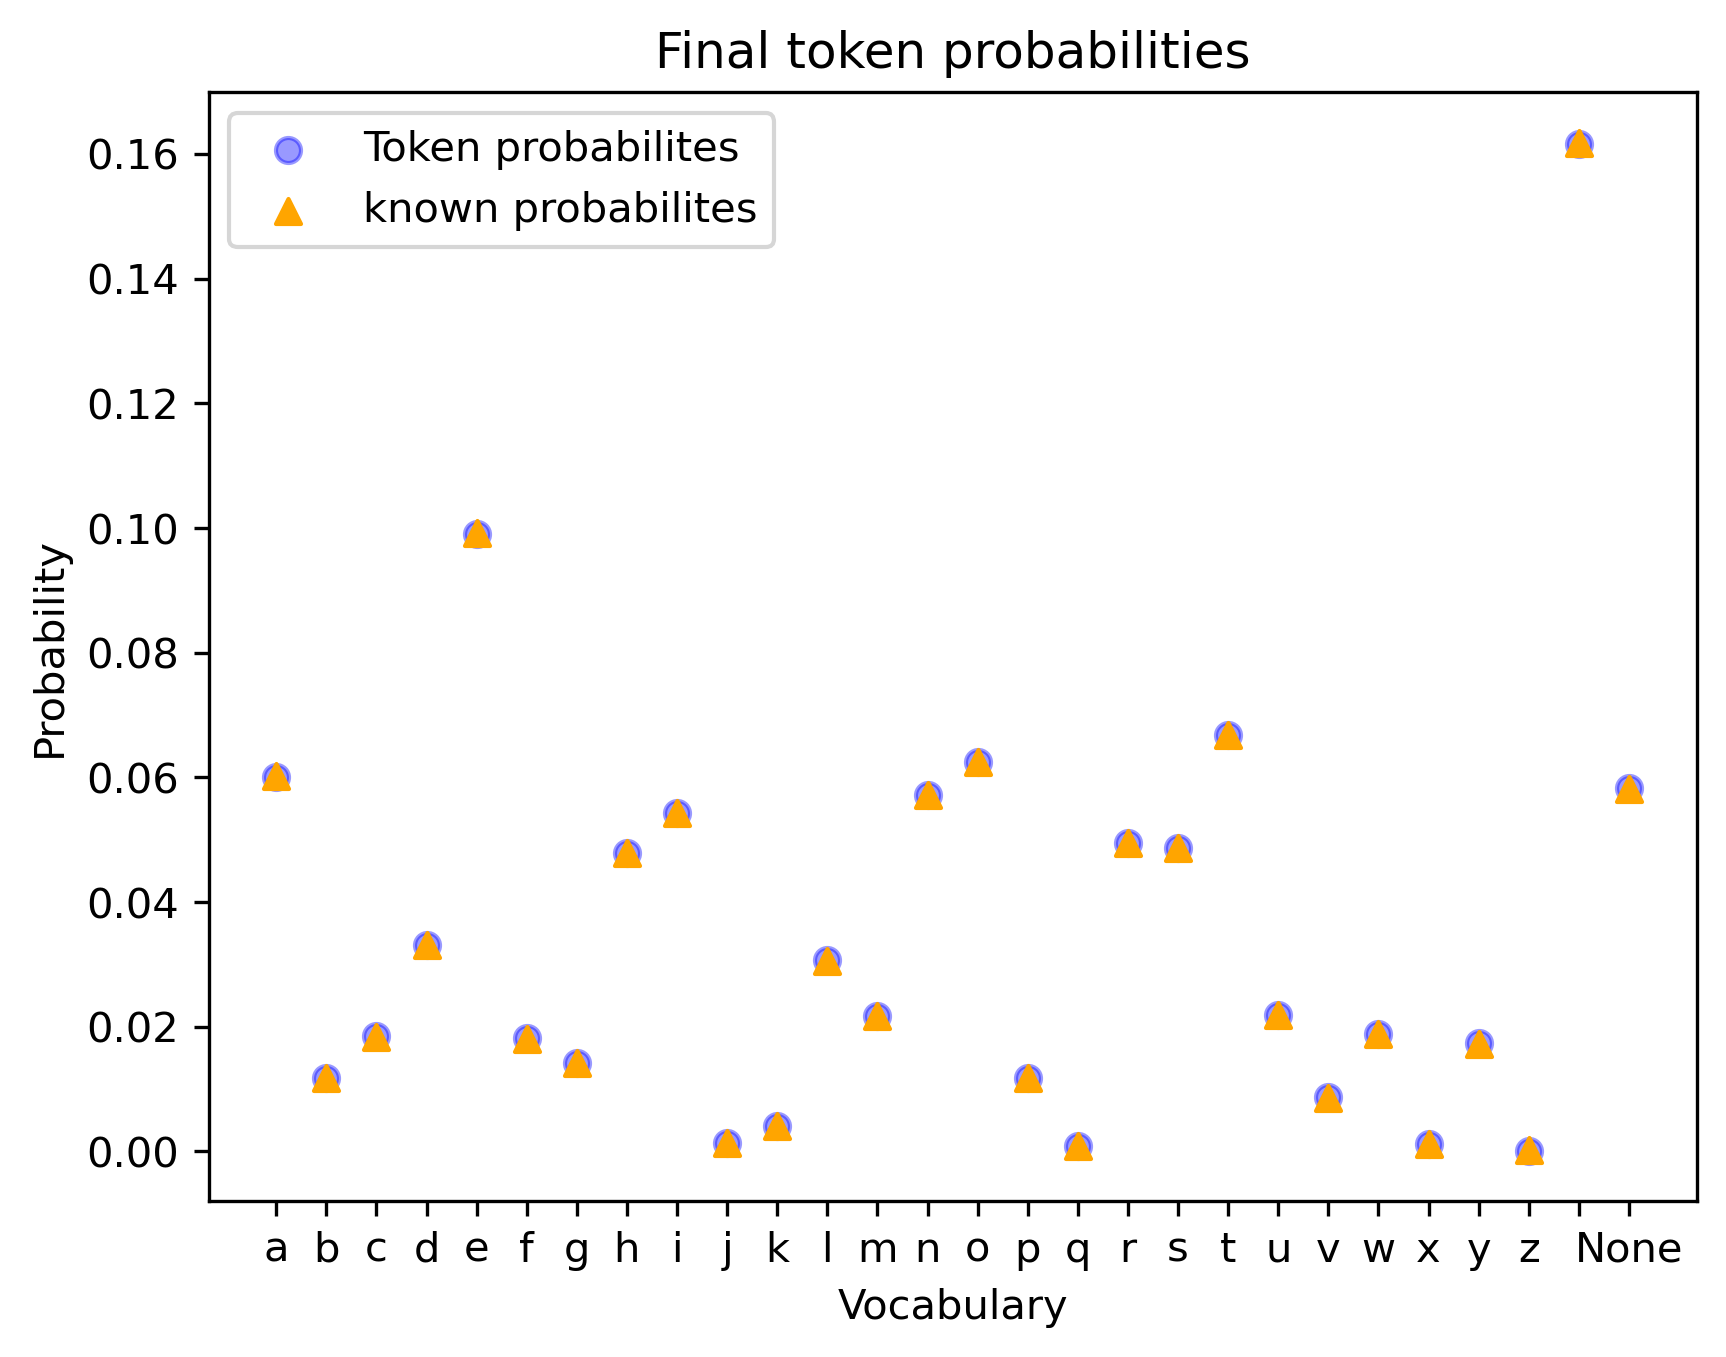
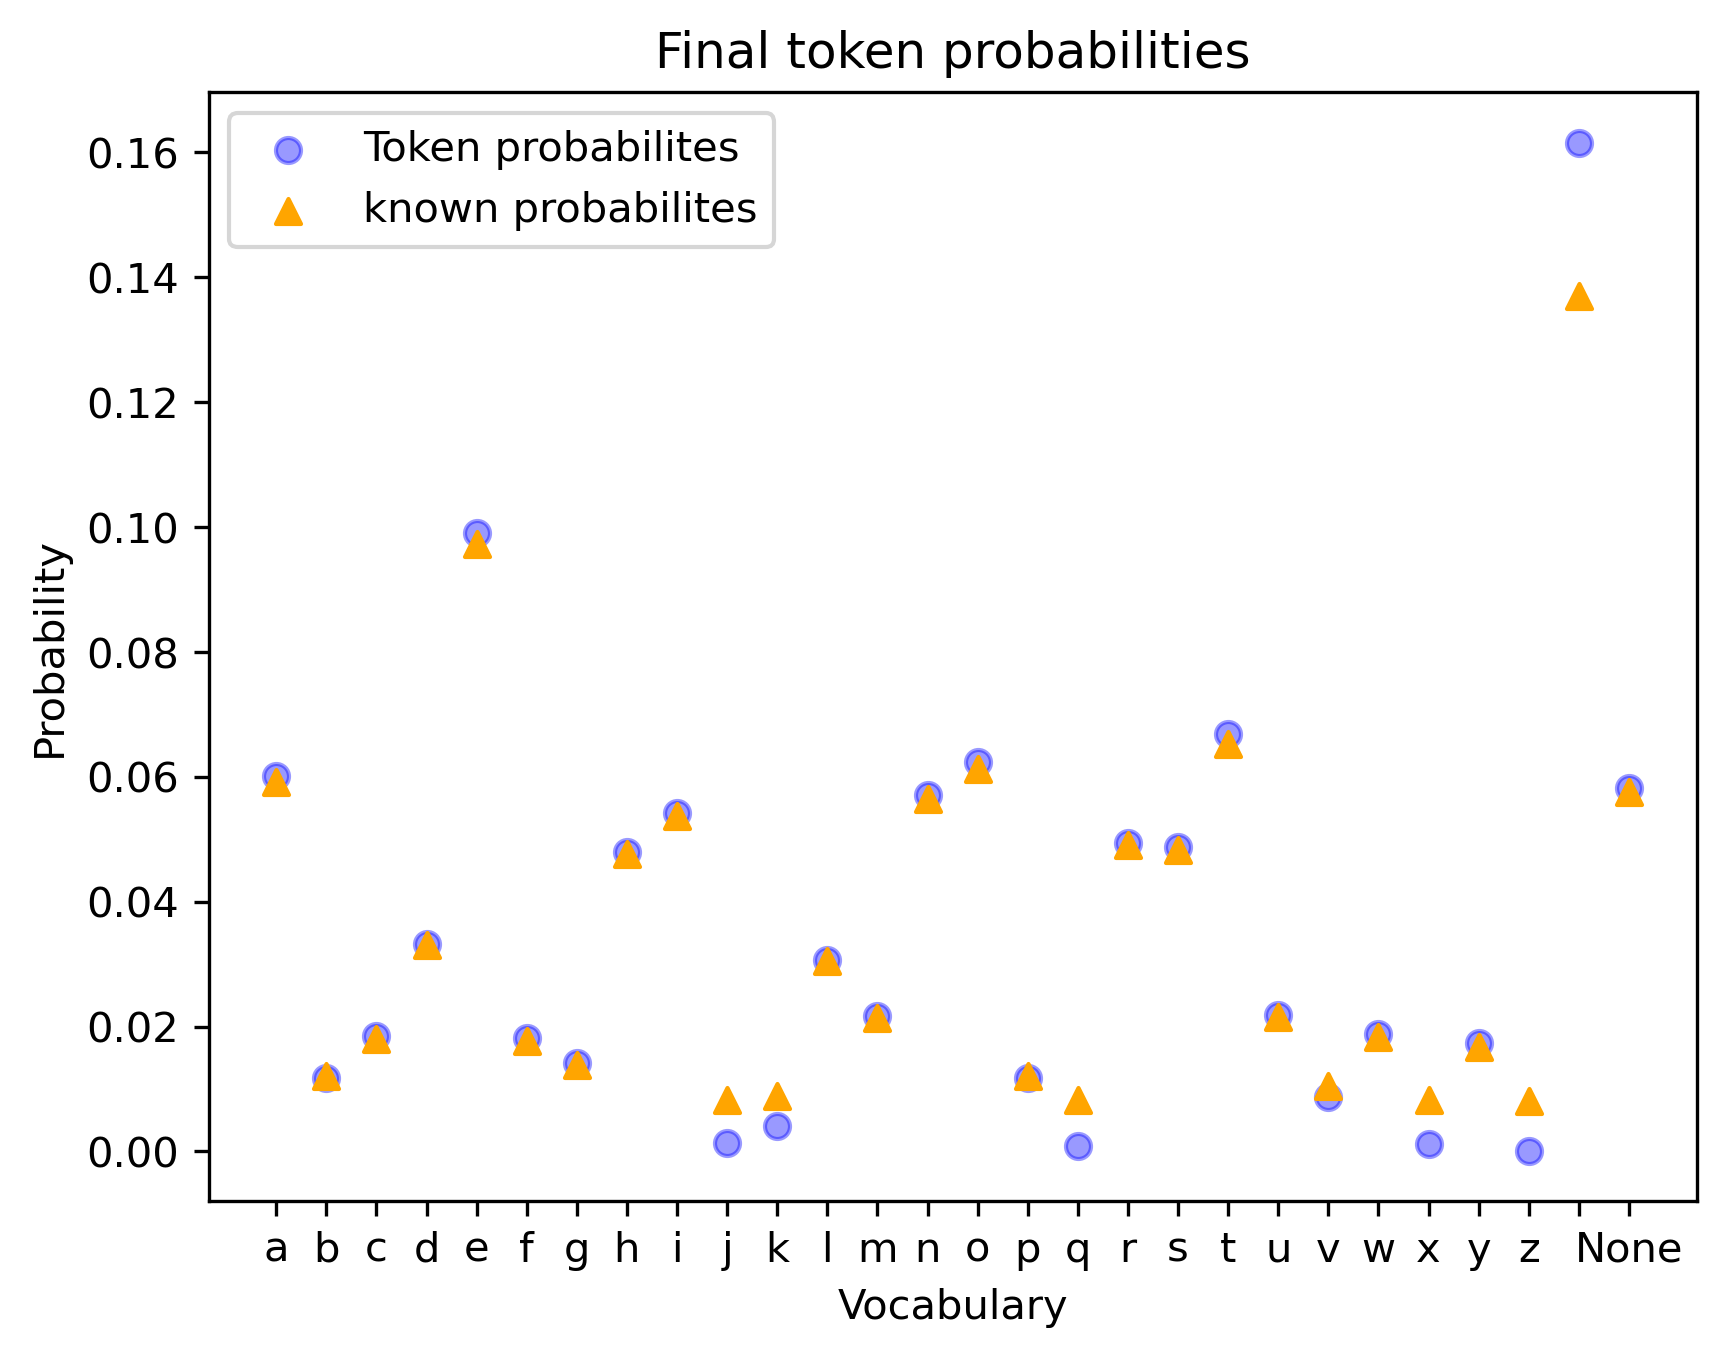
update py

diff --git a/unigram_pytorch.py b/unigram_pytorch.py
@@ -50,7 +50,7 @@ class Unigram(nn.Module):
         p = normalize(torch.sigmoid(self.s))
 
         # compute log probability of input
-        return torch.sum(input, 1, keepdim=True).T @ torch.log(p)
+        return torch.sum(input, 1, keepdim=True).T @ torch.log(p), p
 
 
 def gradient_descent_example():
@@ -76,27 +76,70 @@ def gradient_descent_example():
 
     # set number of iterations and learning rate
     num_iterations = 100
-    learning_rate = 0.1
+    learning_rate = 0.02
 
     # train model
     optimizer = torch.optim.Adam(model.parameters(), lr=learning_rate)
     list_loss = []
     list_items = []
     for i in range(num_iterations):
-        p_pred = model(x)
+        p_pred, p = model(x)
         loss = -p_pred
         loss.backward(retain_graph=True)
         optimizer.step()
         optimizer.zero_grad()
         list_loss.append(i)
         list_items.append(loss.item())
+    true_p = torch.sum(x, 1, keepdim=True) / len(text)
+    mm = -(torch.sum(x, 1, keepdim=True)).T @ torch.log(true_p)
+    min = mm.item()
+    # graph 1
+    plt.figure()
 
     plt.plot(list_loss, list_items)
+    plt.xlabel("iterations")
+    plt.ylabel("loss")
+    plt.title("Loss as a function of time ")
+    plt.axhline(y=min, color="red", linestyle="--", label="Minimum possible loss")
+    plt.legend()
     plt.show()
+    plt.savefig("g_1_100.png", dpi=300, bbox_inches="tight")
 
-    # display results
-    # raise RuntimeError("Remove this error and create visualizations.")  # DO THIS
-    # graph
+    # graph 2
+    plt.figure()
+
+    plt.scatter(
+        [str(i) for i in vocabulary],
+        true_p.squeeze().tolist(),
+        color="blue",
+        alpha=0.4,
+        label="Token probabilites",
+    )
+    plt.scatter(
+        [str(i) for i in vocabulary],
+        p.squeeze().tolist(),
+        color="orange",
+        alpha=1,
+        marker="^",
+        label="known probabilites",
+    )
+    plt.xlabel("Vocabulary")
+    plt.ylabel("Probability")
+    plt.title("Final token probabilities")
+    plt.legend()
+    plt.show
+    plt.savefig("g_2_100.png", dpi=300, bbox_inches="tight")
+
+    # prob differences
+    plt.figure()
+    difference_list = [x - y for x, y in zip(true_p, p)]
+    values_list = [tensor.item() for tensor in difference_list]
+    plt.scatter([str(i) for i in vocabulary], values_list, color="green")
+    plt.title("Difference in probabilities")
+    plt.xlabel("Vocabulary")
+    plt.ylabel("Difference in probability")
+    plt.show
+    plt.savefig("g_3_100.png", dpi=300, bbox_inches="tight")
 
 
 if __name__ == "__main__":
